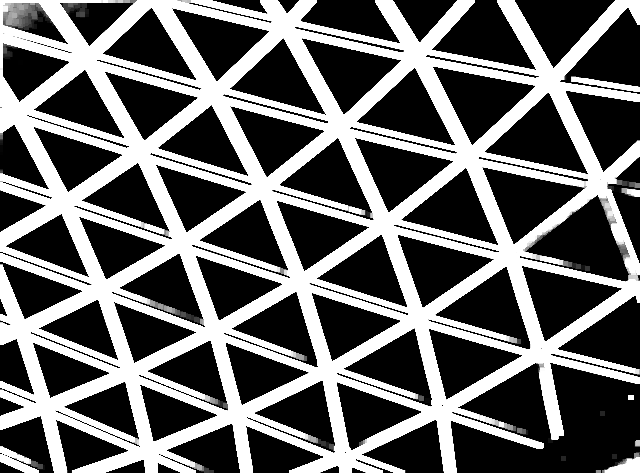
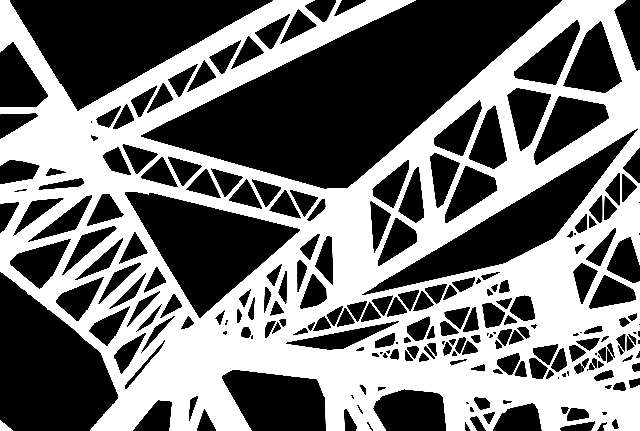
Add chevron fins as fourth structure; gridshell now leads the rotation
New mask from the supplied colonnade photo (structure-4.png, nested
chevron ribs with their cast shadows, 1px dilation for the receding
stack). Masks renumbered to match rotation order: 1 gridshell,
2 lattice tower, 3 bridge girders, 4 fins.

diff --git a/index.html b/index.html
@@ -223,7 +223,7 @@ var wordmarkEl = document.querySelector(".wordmark");
 var dpr = Math.min(window.devicePixelRatio || 1, 2);
 var W, H, cols, rows, fields, rings;
 var SPACING = 9;
-var SHAPES = 3;
+var SHAPES = 4;
 
 function resize() {
 W = window.innerWidth;
@@ -267,8 +267,8 @@ the viewport. Per grid dot we store how strongly it sits on structure
 (fields) and a blurred ring just outside it (rings) used to thin the
 surrounding fog, as if cloud matter gets drawn into the shape. */
 
-var SHAPE_SRC = ["structure-1.png", "structure-2.png", "structure-3.png"];
-var shapeImgs = [null, null, null];
+var SHAPE_SRC = ["structure-1.png", "structure-2.png", "structure-3.png", "structure-4.png"];
+var shapeImgs = [null, null, null, null];
 for (var si = 0; si < SHAPES; si++) {
 var im = new Image();
 im.onload = buildFields;
@@ -338,9 +338,10 @@ var ink = [28, 27, 24];
 var timber = [96, 82, 56];
 var CYCLE = 15000;
 
-/* #truss in the URL pins presence for tuning; #truss0 (tower) / #truss1
-(girders) / #truss2 (gridshell) also pins a specific shape. Returns null
-(no pin), -1 (pin, cycling shapes) or a shape index. */
+/* #truss in the URL pins presence for tuning; #truss0 (gridshell) /
+#truss1 (tower) / #truss2 (girders) / #truss3 (fins) also pins a
+specific shape. Returns null (no pin), -1 (pin, cycling shapes) or a
+shape index. */
 function debugPin() {
 var m = /^#truss(\d)?$/.exec(location.hash);
 if (!m) return null;